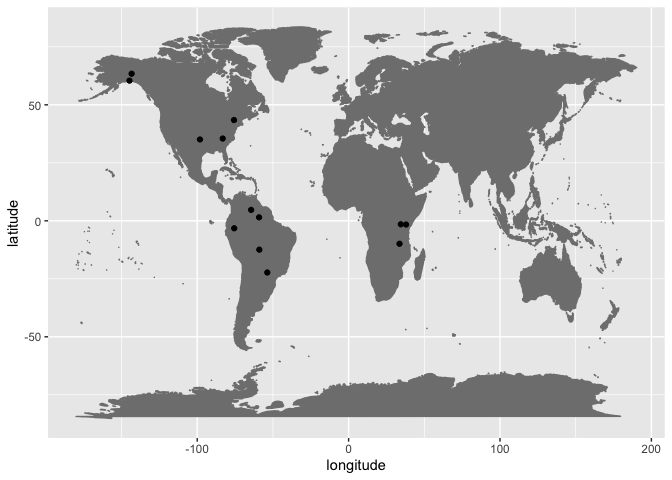
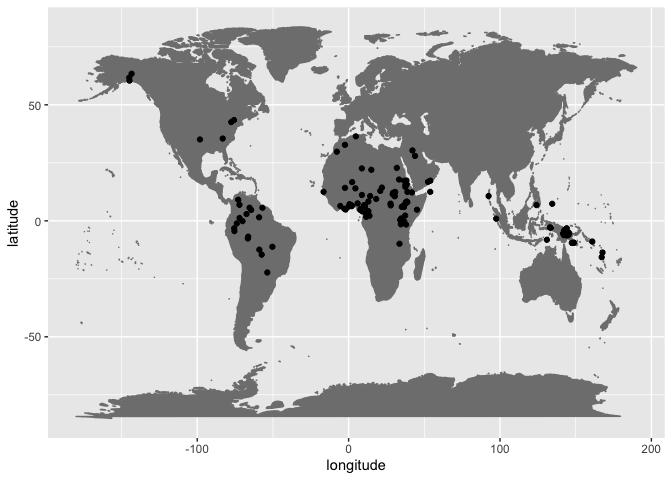
add percentages

diff --git a/README.md b/README.md
@@ -1,7 +1,7 @@
 Supplementary materials: Life of /p/
 ================
 Steven Moran and Adriano Lameira
-(18 September, 2022)
+(23 October, 2022)
 
 -   <a href="#overview" id="toc-overview">Overview</a>
 -   <a href="#analyses" id="toc-analyses">Analyses</a>
@@ -207,7 +207,14 @@ phoible_by_iso_with_p %>% group_by(ISO6393) %>% summarize(n = n()) %>% arrange(d
     ##  9 alw         4
     ## 10 amh         4
     ## # … with 1,939 more rows
-    ## # ℹ Use `print(n = ...)` to see more rows
+
+And ask what percentage of languages in PHOIBLE have p-like sounds.
+
+``` r
+nrow(phoible_by_iso_with_p %>% select(ISO6393) %>% distinct()) / num_languages
+```
+
+    ## [1] 0.9316444
 
 Which are the languages that contain no “p-like” segments?
 
@@ -234,6 +241,14 @@ nrow(phoible_by_iso_no_p)
 
     ## [1] 143
 
+Or about 7% of languages in the sample (see above).
+
+``` r
+nrow(phoible_by_iso_no_p) / num_languages
+```
+
+    ## [1] 0.06835564
+
 One random example is
 [Afar](https://phoible.org/inventories/view/1342#tipa), which does not
 contain a voiceless bilabial plosive, but it does contain its voiced
@@ -258,7 +273,7 @@ ggplot(data=no_p_by_geography, aes(x=longitude,y=latitude)) +
   geom_point()
 ```
 
-![](README_files/figure-gfm/unnamed-chunk-18-1.png)<!-- -->
+![](README_files/figure-gfm/unnamed-chunk-20-1.png)<!-- -->
 
 Africa is notable for lacking voiceless bilabial plosives (Houis 1974;
 Maddieson 1984; Clements and Rialland 2008) and is interesting because
@@ -336,7 +351,7 @@ ggplot(data=no_bilabials, aes(x=longitude,y=latitude)) +
   geom_point()
 ```
 
-![](README_files/figure-gfm/unnamed-chunk-21-1.png)<!-- -->
+![](README_files/figure-gfm/unnamed-chunk-23-1.png)<!-- -->
 
 Languages lacking native bilabial plosives /p/ and /b/ are extremely
 rare in the PHOIBLE sample overall, i.e. 14 observations out of 2092
@@ -495,7 +510,7 @@ ggplot(cross_features, aes(reorder(x = value, -total), y= total)) +
   ggtitle("Feature frequency by language")
 ```
 
-![](README_files/figure-gfm/unnamed-chunk-28-1.png)<!-- -->
+![](README_files/figure-gfm/unnamed-chunk-30-1.png)<!-- -->
 
 Most languages employ the phonological feature `labial` to encode
 contrastive sounds in their language.
@@ -576,7 +591,7 @@ ggplot(data=b_but_no_p, aes(x=longitude,y=latitude)) +
   geom_point()
 ```
 
-![](README_files/figure-gfm/unnamed-chunk-33-1.png)<!-- -->
+![](README_files/figure-gfm/unnamed-chunk-35-1.png)<!-- -->
 
 Mainly in Africa, in which this phenomenon has also been noted as a
 feature north of the equator and in the Arabian penisula. It is also
@@ -666,7 +681,6 @@ bdproto_results %>% filter(is.na(has_p) & is.na(has_b))
 
     ## # A tibble: 0 × 3
     ## # … with 3 variables: BdprotoID <dbl>, has_p <lgl>, has_b <lgl>
-    ## # ℹ Use `colnames()` to see all variable names
 
 Which lack a /p/? 15 out of 253 data points, so around 8%.
 
@@ -704,7 +718,7 @@ around 37%.
 bdproto_results %>% filter(is.na(has_b))
 ```
 
-    ## # A tibble: 94 × 3
+    ## # A tibble: 93 × 3
     ##    BdprotoID has_p has_b
     ##        <dbl> <lgl> <lgl>
     ##  1        10 TRUE  NA   
@@ -717,8 +731,7 @@ bdproto_results %>% filter(is.na(has_b))
     ##  8        26 TRUE  NA   
     ##  9        27 TRUE  NA   
     ## 10        30 TRUE  NA   
-    ## # … with 84 more rows
-    ## # ℹ Use `print(n = ...)` to see more rows
+    ## # … with 83 more rows
 
 Which lack a /p/ but not /b/?
 
@@ -755,7 +768,7 @@ Which lack a /b/ but not /p/?
 bdproto_results %>% filter(is.na(has_b) & has_p)
 ```
 
-    ## # A tibble: 94 × 3
+    ## # A tibble: 93 × 3
     ##    BdprotoID has_p has_b
     ##        <dbl> <lgl> <lgl>
     ##  1        10 TRUE  NA   
@@ -768,8 +781,7 @@ bdproto_results %>% filter(is.na(has_b) & has_p)
     ##  8        26 TRUE  NA   
     ##  9        27 TRUE  NA   
     ## 10        30 TRUE  NA   
-    ## # … with 84 more rows
-    ## # ℹ Use `print(n = ...)` to see more rows
+    ## # … with 83 more rows
 
 Interestingly, no ancient or reconstructed languages in the BDPROTO lack
 both /p/ and /b/. And the general tendency, if either one or the other
@@ -784,7 +796,7 @@ lgs_with_bdproto_bialbials <- bdproto_bialbials %>% select(BdprotoID) %>% distin
 nrow(lgs_with_bdproto_bialbials) / nrow(bdproto %>% select(BdprotoID) %>% distinct())
 ```
 
-    ## [1] 0.08823529
+    ## [1] 0.0858209
 
 How many data points do not have Glottocodes – a marker of how many
 languages / dialects are reported in BDPROTO – 214 out of 272.
@@ -793,13 +805,13 @@ languages / dialects are reported in BDPROTO – 214 out of 272.
 nrow(bdproto %>% select(BdprotoID) %>% distinct())
 ```
 
-    ## [1] 272
+    ## [1] 268
 
 ``` r
 nrow(bdproto %>% select(Glottocode) %>% filter(!is.na(Glottocode)) %>% distinct())
 ```
 
-    ## [1] 214
+    ## [1] 212
 
 Does the frequency of the presence of bilabial fricatives change if we
 subset the data on Glottocodes? It actually goes up to about 10%.
@@ -810,7 +822,7 @@ lgs_with_bdproto_bialbials <- bdproto_bialbials %>% select(Glottocode) %>% disti
 nrow(lgs_with_bdproto_bialbials) / nrow(bdproto %>% select(Glottocode) %>% filter(!is.na(Glottocode)) %>% distinct())
 ```
 
-    ## [1] 0.09813084
+    ## [1] 0.09433962
 
 When compared to PHOIBLE is this prevalance of languages with
 contrastive (or reconstructed) bilabial fricatives greater or less today
@@ -924,7 +936,7 @@ p <- reverse.time(ggtree(pr_sum_tree$tree, ladderize=T, right=T)) +
 plot.tree(p, traits.print)
 ```
 
-![](README_files/figure-gfm/unnamed-chunk-48-1.png)<!-- -->
+![](README_files/figure-gfm/unnamed-chunk-50-1.png)<!-- -->
 
 What we find is that within the Indo-European phylogeny the feature
 labial is present in all daughter nodes of the famil tree (which has
@@ -972,7 +984,7 @@ p <- reverse.time(ggtree(pr_sum_tree$tree, ladderize=T, right=T)) +
 plot.tree(p, traits.print)
 ```
 
-![](README_files/figure-gfm/unnamed-chunk-50-1.png)<!-- -->
+![](README_files/figure-gfm/unnamed-chunk-52-1.png)<!-- -->
 
 # Exploratory
 
